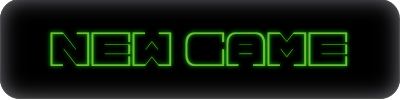
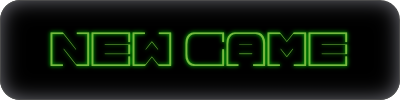
Cool GUI Effect. Youll like it
Pressed button highlighting

diff --git a/src/UndiscoveredWorldsGUI.java b/src/UndiscoveredWorldsGUI.java
@@ -56,6 +56,7 @@ public class UndiscoveredWorldsGUI extends JFrame implements ActionListener {
 		newGameButton.addActionListener(this);
 		newGameButton.setToolTipText("Start a new game");
 		newGameButton.setIcon(new ImageIcon("Art" + File.separator + "MainNewGameButton.png"));
+		newGameButton.setSelectedIcon(new ImageIcon("Art" + File.separator + "MainNewGameButtonPressed.png"));
 		newGameButton.setOpaque(false);
 		newGameButton.setBorderPainted(false);
 		newGameButton.setContentAreaFilled(false);
@@ -67,6 +68,7 @@ public class UndiscoveredWorldsGUI extends JFrame implements ActionListener {
 		loadGameButton.addActionListener(this);
 		loadGameButton.setToolTipText("Load a previous game save");
 		loadGameButton.setIcon(new ImageIcon("Art" + File.separator + "MainLoadGameButton.png"));
+		loadGameButton.setSelectedIcon(new ImageIcon("Art" + File.separator + "MainLoadGameButtonPressed.png"));
 		loadGameButton.setOpaque(false);
 		loadGameButton.setBorderPainted(false);
 		loadGameButton.setContentAreaFilled(false);
@@ -107,6 +109,7 @@ public class UndiscoveredWorldsGUI extends JFrame implements ActionListener {
 		playButton.addActionListener(this);
 		playButton.setToolTipText("Play Undiscovered Worlds");
 		playButton.setIcon(new ImageIcon("Art" + File.separator + "StoryPlayButton.png"));
+		playButton.setSelectedIcon(new ImageIcon("Art" + File.separator + "StoryPlayButtonPressed.png"));
 		playButton.setOpaque(false);
 		playButton.setBorderPainted(false);
 		playButton.setContentAreaFilled(false);
@@ -117,6 +120,7 @@ public class UndiscoveredWorldsGUI extends JFrame implements ActionListener {
 		backButton.addActionListener(this);
 		backButton.setToolTipText("Return to the main menu");
 		backButton.setIcon(new ImageIcon("Art" + File.separator + "StoryBackButton.png"));
+		backButton.setSelectedIcon(new ImageIcon("Art" + File.separator + "StoryBackButtonPressed.png"));
 		backButton.setOpaque(false);
 		backButton.setBorderPainted(false);
 		backButton.setContentAreaFilled(false);

diff --git a/src/SpacePanel.java b/src/SpacePanel.java
@@ -44,6 +44,8 @@ public class SpacePanel extends JPanel
     optionsButton.setLocation(DEFAULT_WINDOW_SIZE - optionsButton.getWidth(), 0);
     optionsButton.setIcon(new ImageIcon("Art" + File.separator
         + "SettingsButton.png"));
+    optionsButton.setSelectedIcon(new ImageIcon("Art" + File.separator
+        + "SettingsButtonPressed.png"));
     optionsButton.setToolTipText("Options Menu");
     optionsButton.addActionListener(new ActionListener()
     {
@@ -71,6 +73,8 @@ public class SpacePanel extends JPanel
     inventoryButton.setLocation(DEFAULT_WINDOW_SIZE - optionsButton.getWidth() - inventoryButton.getWidth() - 5, 0);
     inventoryButton.setIcon(new ImageIcon("Art" + File.separator
             + "InventoryButton.png"));
+    inventoryButton.setSelectedIcon(new ImageIcon("Art" + File.separator
+            + "InventoryButtonPressed.png"));
     inventoryButton.setToolTipText("Inventory");
     inventoryButton.addActionListener(new ActionListener()
     {
@@ -90,6 +94,7 @@ public class SpacePanel extends JPanel
 
     JButton back = new JButton();
     back.setIcon(new ImageIcon("Art" + File.separator + "BackButton.png"));
+    back.setSelectedIcon(new ImageIcon("Art" + File.separator + "BackButtonPressed.png"));
     back.setOpaque(false);
     back.setBorderPainted(false);
     back.setContentAreaFilled(false);

diff --git a/src/TradingMenu.java b/src/TradingMenu.java
@@ -156,12 +156,15 @@ public class TradingMenu extends JFrame implements WindowFocusListener
     buy.addActionListener(handler);
     buy.setFocusPainted(false);
     buy.setIcon(new ImageIcon("Art" + File.separator + "BuyButton.png"));
+    buy.setSelectedIcon(new ImageIcon("Art" + File.separator + "BuyButtonPressed.png"));
     sell.addActionListener(handler);
     sell.setFocusPainted(false);
     sell.setIcon(new ImageIcon("Art" + File.separator + "SellButton.png"));
+    sell.setSelectedIcon(new ImageIcon("Art" + File.separator + "SellButtonPressed.png"));
     leave.addActionListener(handler);
     leave.setFocusPainted(false);
     leave.setIcon(new ImageIcon("Art" + File.separator + "LeaveButton.png"));
+    leave.setSelectedIcon(new ImageIcon("Art" + File.separator + "LeaveButtonPressed.png"));
   }
   /**
    * This method creates the merchant and checks if you have previously been there.
